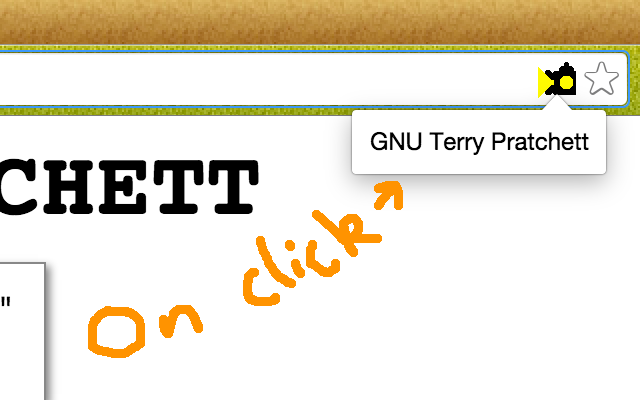
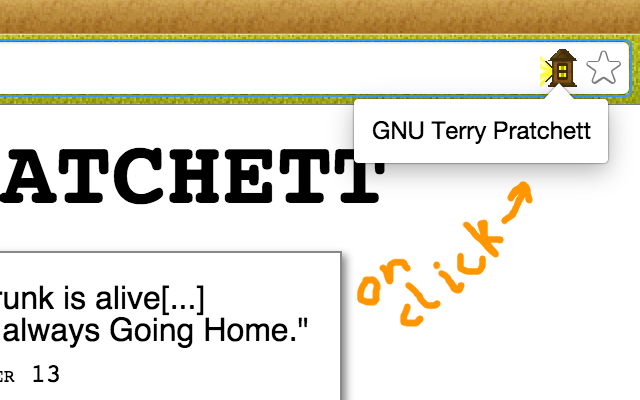
now recognises html meta clacks tags, updated screenshots for chrome web store

Changed region(s): [[0.0, 0.0, 1.0, 1.0], [0.0, 0.63, 0.4688, 1.0], [0.4688, 0.78, 0.5, 0.81]]

diff --git a/src/background.js b/src/background.js
@@ -1,12 +1,7 @@
 var DEBUG = false;
 
 // Create data store
-var clacks = {},
-    shown = {}; // this object is to enable crappy, hacky fix. I'll try and find
-                // a better solution but without it, it currently doesn't work
-                // with www.gnuterrypratchett.com for example. It does make it
-                // persist for a short time in some cases where it shouldn't
-                // though.
+var clacks = {};
 
 // return clacks headers, called by popup to get them for display
 function getClacks(tabId) {
@@ -39,8 +34,7 @@ chrome.webRequest.onCompleted.addListener(
                 // Note from Pete: I've change += to just = to stop it repeating itself.
                 // - related to premature deletion? - don't think so...
                 clacks[details.tabId] = newClacks;
-                chrome.pageAction.show(details.tabId);
-                shown[details.tabId] = false;
+                chrome.pageAction.show[details.tabId];
                 if (DEBUG) console.log("store");
             }
         }
@@ -49,26 +43,43 @@ chrome.webRequest.onCompleted.addListener(
     ["responseHeaders"]
 );
 
+// clear clacks on navigation to a new page
+chrome.webNavigation.onCommitted.addListener(
+    function(details) {
+        if (details.transitionType !== "auto_subframe") {
+            delete clacks[details.tabId];
+            chrome.pageAction.hide(details.tabId);
+        }
+    }
+);
+
+// listen to messages from content scripts
+chrome.runtime.onMessage.addListener(
+    function(request, sender, sendResponse) {
+        var tabId = sender.tab.id;
+
+        if (request.clacks) {
+            if (clacks[tabId]) clacks[tabId] += "\n" + request.clacks;
+            else clacks[tabId] = request.clacks;
+        }
+
+        // if there is a clacks entry for the loaded tab, show icon for that tab.
+        if (clacks[tabId]) chrome.pageAction.show(tabId);
+        // if (DEBUG) console.log("shown: ", shown[tabId]);
+});
+
 // Keeps the data store clean by deleting entries for tabs when they are closed.
 chrome.tabs.onRemoved.addListener(function (tabId) {
-    if (clacks[tabId]) delete clacks[tabId];
-});
-
-// when tab is updated, check if pageAction icon should show
-chrome.tabs.onUpdated.addListener(function(tabId, change) {
-    // if the update is complete, decide if we show the icon.
-    if (DEBUG) console.log("status: ",change.status);
-    if (change.status === "complete" && clacks[tabId]) {
-        // if there is a clacks entry for the UPDATED tab, show icon for that tab.
-        chrome.pageAction.show(tabId);
-        shown[tabId] = true;
-
-    // if the update is loading, clean the clacks entries for the tab and hide the icon.
-    // probably doesn't require the if statement.
-    } else if (clacks[tabId] && shown[tabId] === true) {
+    if (clacks[tabId]) {
         delete clacks[tabId];
-        delete shown[tabId];
-        chrome.pageAction.hide(tabId);
     }
-    if (DEBUG) console.log("shown: ",shown[tabId]);
 });
+
+// Possible code for filtering duplicate strings
+// function uniqueStrings(list) {
+//     var set = {}, i;
+//     for (i in list) {
+//         set[list[i]] = true;
+//     }
+//     return Object.keys(set);
+// }

diff --git a/src/content.js b/src/content.js
@@ -1,0 +1,15 @@
+// Find meta tags with clacks overhead
+// ********** it would be so much better to match this with a regex or similar
+// <meta http-equiv="X-Clacks-Overhead" content="GNU Terry Pratchett" />
+var clacks = document.querySelectorAll("meta[http-equiv='X-Clacks-Overhead']"
+                                    || "meta[http-equiv='x-clacks-overhead']"
+                                    || "meta[http-equiv='Clacks-Overhead']"
+                                    || "meta[http-equiv='clacks-overhead']"),
+    str = "";
+
+// get text content from clack meta tags, first item outside loop to avoid newline
+if (clacks[0]) str += clacks[0].getAttribute('content');
+for (i=1; i<clacks.length; i++) str += "\n"+clacks[i].getAttribute('content');
+
+// send clacks to background, even if empty, to trigger pageAction check
+chrome.runtime.sendMessage({clacks: str});
